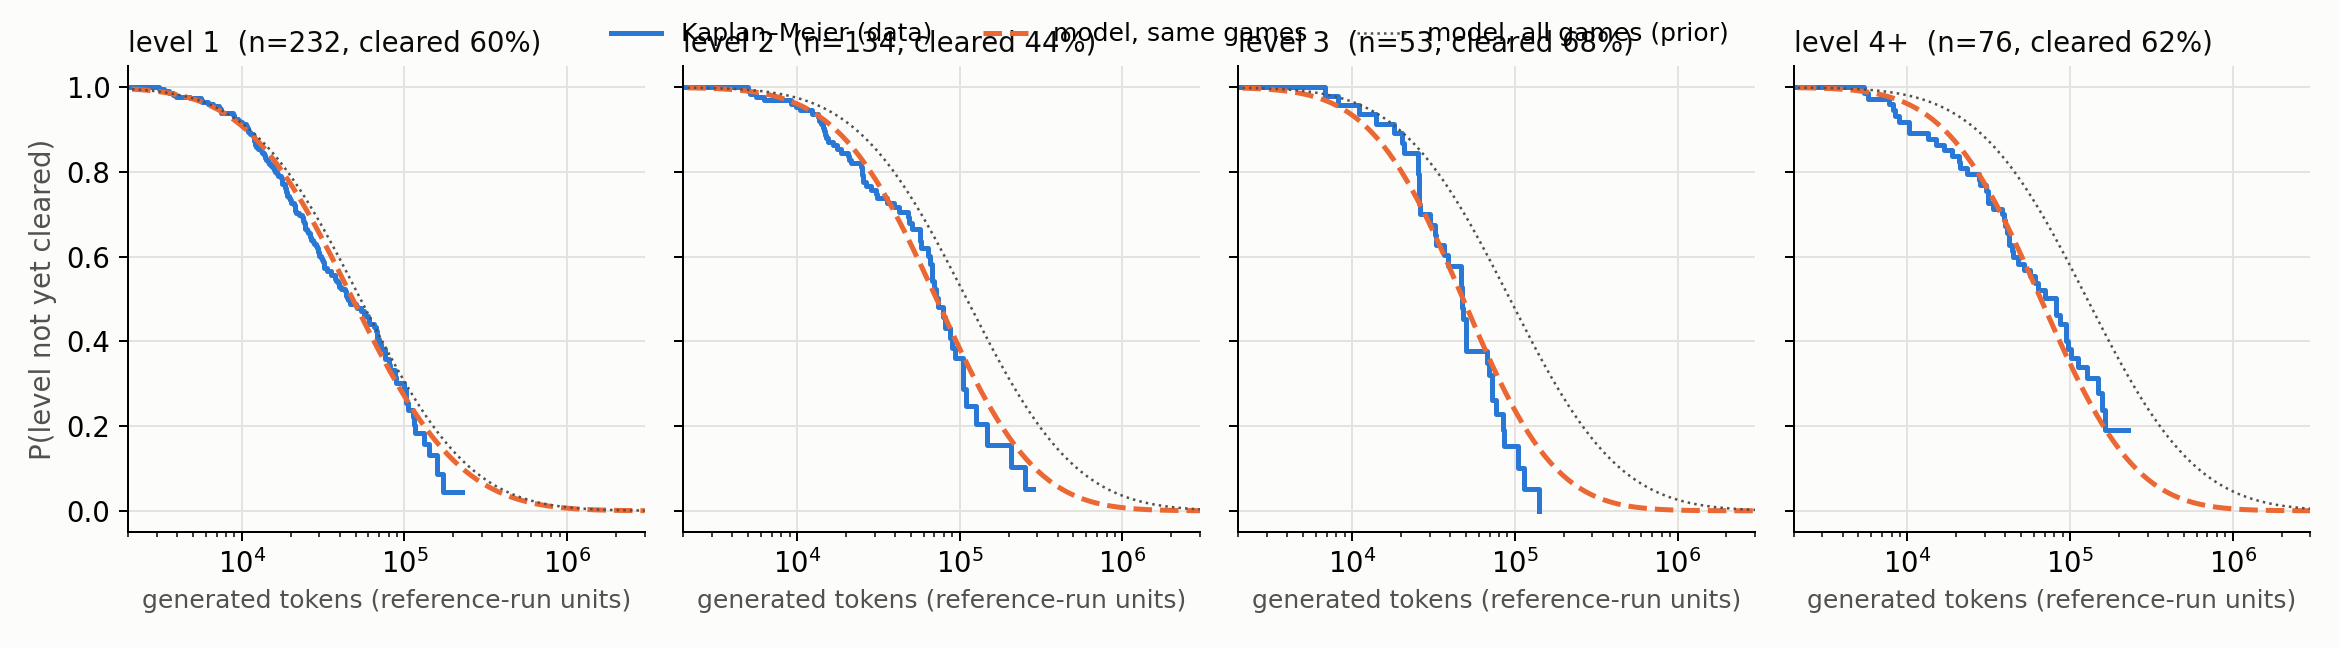
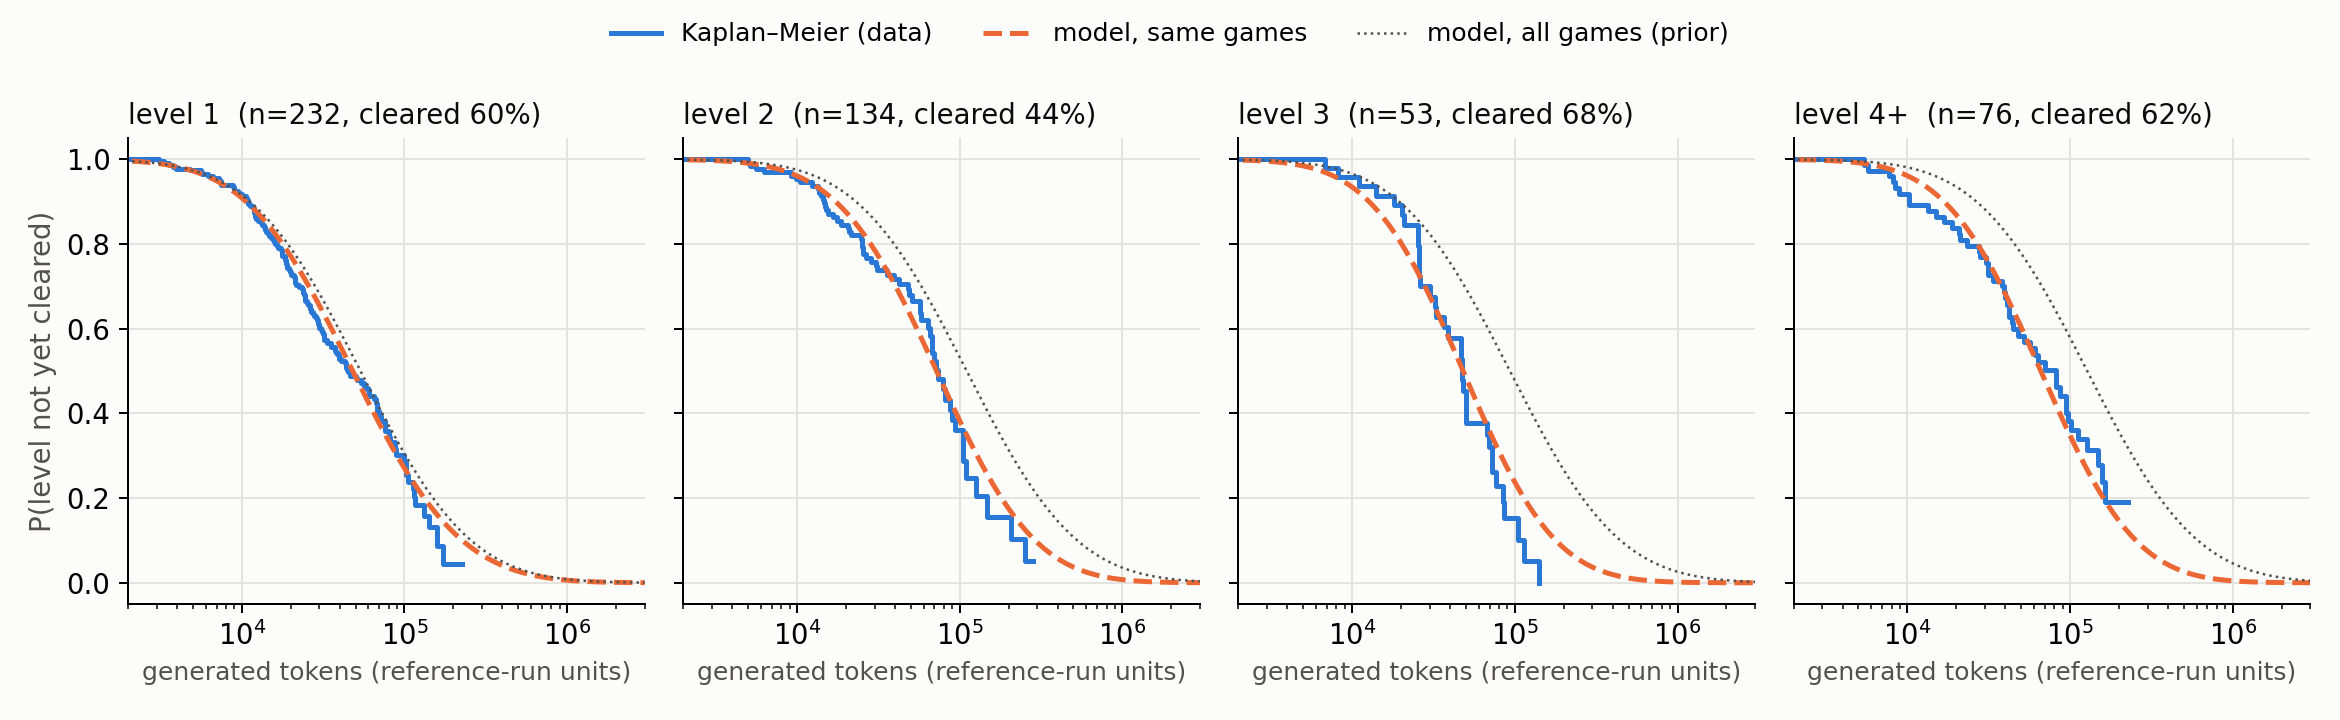
KM fig layout

diff --git a/analysis/fig_km.py b/analysis/fig_km.py
@@ -12,7 +12,7 @@ def km(t, e):
         xs.append(t[i]); ys.append(S)
     return np.array(xs), np.array(ys)
 plt.rcParams.update({"figure.facecolor": SURF, "axes.facecolor": SURF, "font.size": 11, "axes.spines.top": False, "axes.spines.right": False})
-fig, axs = plt.subplots(1, 4, figsize=(13, 3.6), sharey=True)
+fig, axs = plt.subplots(1, 4, figsize=(13, 4.0), sharey=True)
 grid = np.geomspace(1e3, 3e6, 200)
 for k, ax in enumerate(axs, start=1):
     sub = df[df.level == k] if k < 4 else df[df.level >= 4]
@@ -31,4 +31,4 @@ for k, ax in enumerate(axs, start=1):
     ax.set_xlabel("generated tokens (reference-run units)", color=INK2, fontsize=10)
 axs[0].set_ylabel("P(level not yet cleared)", color=INK2)
 h, l = axs[0].get_legend_handles_labels(); fig.legend(h, l, loc="upper center", ncol=3, frameon=False, fontsize=10)
-fig.tight_layout(); fig.savefig(r"D:\arc3_paper\figs\fig_km.png", dpi=180); print("ok")
+fig.tight_layout(rect=(0, 0, 1, 0.9)); fig.savefig(r"D:\arc3_paper\figs\fig_km.png", dpi=180); print("ok")
